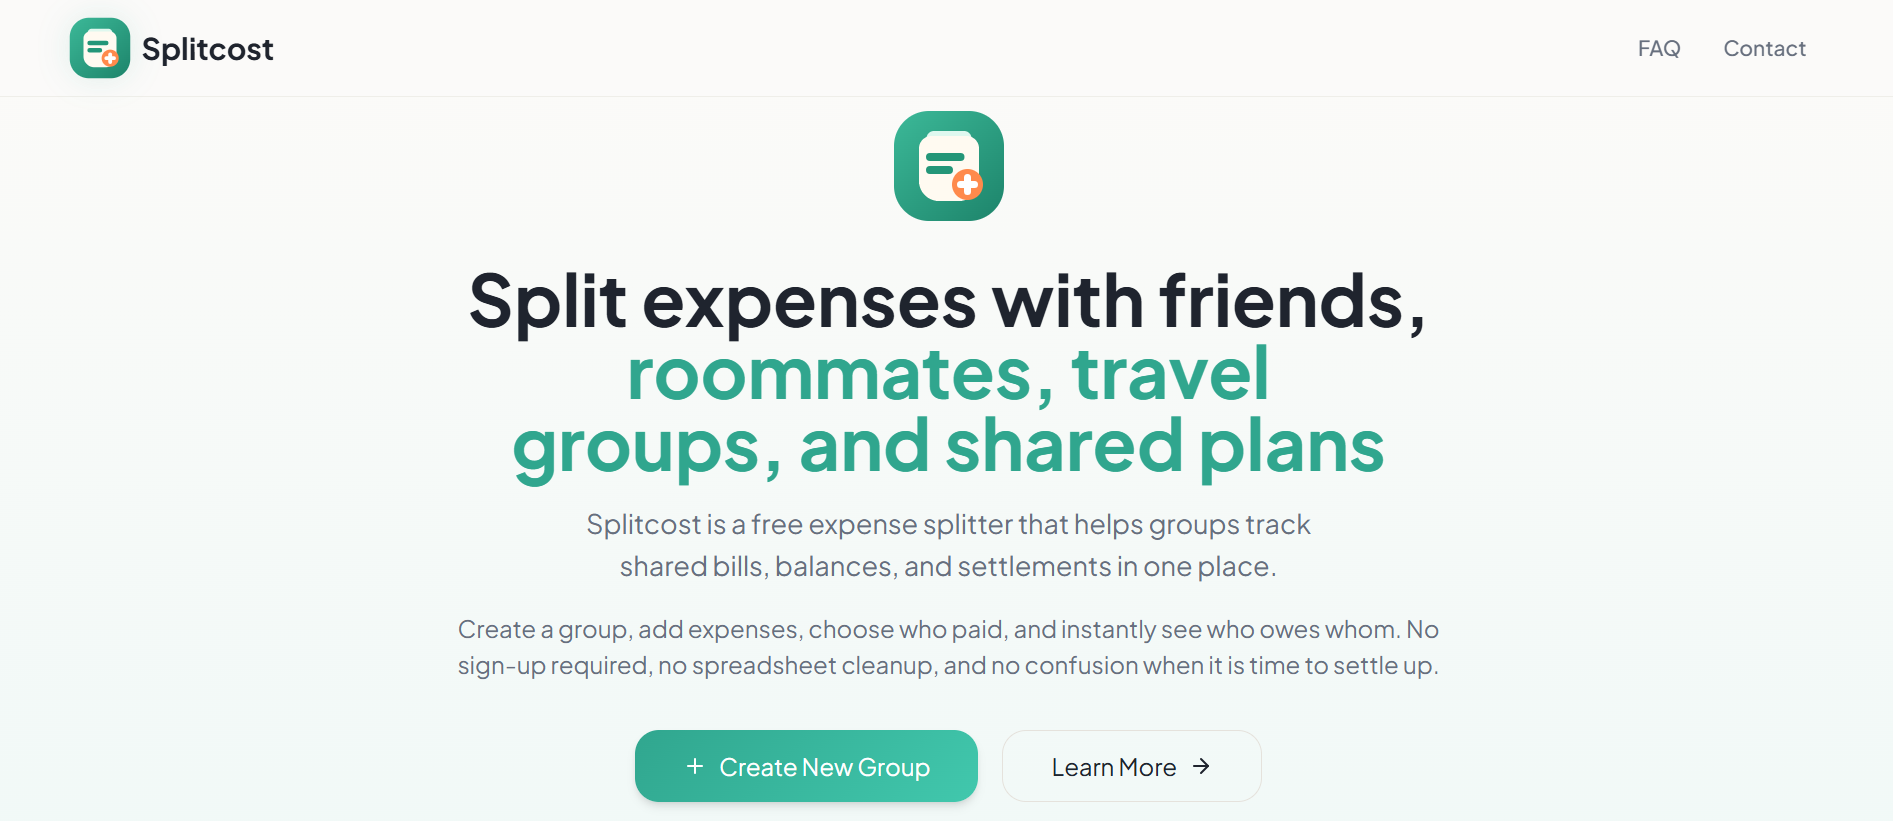
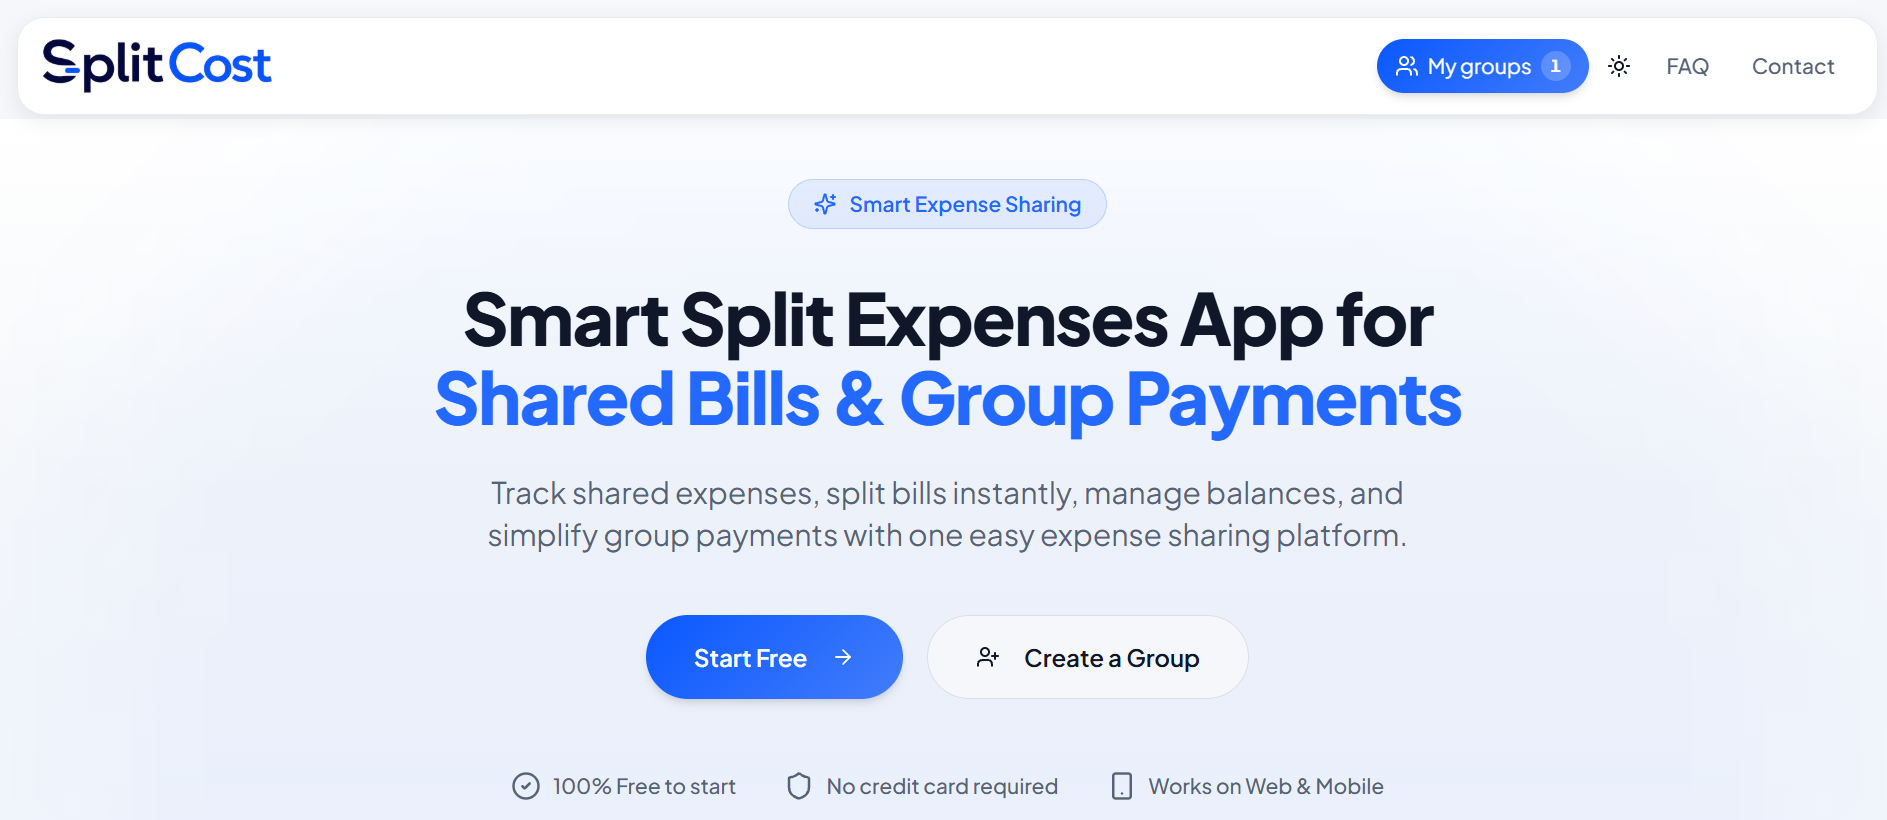
seo fixes

diff --git a/src/components/landing/FaqSection.tsx b/src/components/landing/FaqSection.tsx
@@ -22,70 +22,29 @@ import {
 } from "@/components/ui/accordion";
 import { brandStyles, landingSection } from "@/lib/brand-styles";
 import { APP_NAME } from "@/lib/constants";
+import { FAQ_ITEMS } from "@/lib/faq";
 import { cn } from "@/lib/utils";
 
-type FaqItem = {
+type FaqDisplayItem = {
   question: string;
   answer: string;
   icon: LucideIcon;
 };
 
-const faqs: FaqItem[] = [
-  {
-    question: `What is ${APP_NAME}?`,
-    answer: `${APP_NAME} is a shared expense management platform that helps groups track expenses, split bills fairly, manage balances, and settle payments easily.`,
-    icon: Info,
-  },
-  {
-    question: `Does ${APP_NAME} support different currencies?`,
-    answer: `Yes. Multi-currency support makes ${APP_NAME} useful for international travel expenses and shared payments across different currencies.`,
-    icon: Globe,
-  },
-  {
-    question: `Do I need to create an account to use ${APP_NAME}?`,
-    answer: `No. You can create a group and start tracking shared expenses instantly without requiring everyone to sign up.`,
-    icon: User,
-  },
-  {
-    question: "Can I upload receipts or attachments?",
-    answer:
-      "Yes. You can attach receipts, invoices, and payment screenshots to keep every expense organized and easy to verify.",
-    icon: FileText,
-  },
-  {
-    question: `How can I split expenses in ${APP_NAME}?`,
-    answer:
-      "You can split bills equally, by percentage, or with custom amounts depending on how your group wants to share expenses.",
-    icon: PieChart,
-  },
-  {
-    question: "Can multiple people pay for the same expense?",
-    answer: `Yes. ${APP_NAME} supports multiple payers for a single expense, making it easier to manage shared bookings, travel costs, and group payments.`,
-    icon: Users,
-  },
-  {
-    question: `Can I track travel expenses with ${APP_NAME}?`,
-    answer: `Absolutely. ${APP_NAME} is designed for trips, vacations, and travel groups to help organize transport, hotel bookings, food expenses, and shared costs.`,
-    icon: Luggage,
-  },
-  {
-    question: "Can I export expense reports?",
-    answer: `Yes. ${APP_NAME} allows you to download expense reports and balance summaries for records, reimbursements, or planning purposes.`,
-    icon: Download,
-  },
-  {
-    question: `Is ${APP_NAME} mobile friendly?`,
-    answer: `Yes. ${APP_NAME} is optimized for mobile devices, making it easy to track shared expenses and group payments on the go.`,
-    icon: Smartphone,
-  },
-  {
-    question: `Who can use ${APP_NAME}?`,
-    answer: `${APP_NAME} works well for roommates, couples, travel groups, friends, teams, events, and anyone managing shared expenses together.`,
-    icon: Users,
-  },
+const faqs: FaqDisplayItem[] = [
+  { ...FAQ_ITEMS[0], icon: Info },
+  { ...FAQ_ITEMS[1], icon: Globe },
+  { ...FAQ_ITEMS[2], icon: User },
+  { ...FAQ_ITEMS[3], icon: FileText },
+  { ...FAQ_ITEMS[4], icon: PieChart },
+  { ...FAQ_ITEMS[5], icon: Users },
+  { ...FAQ_ITEMS[6], icon: Luggage },
+  { ...FAQ_ITEMS[7], icon: Download },
+  { ...FAQ_ITEMS[8], icon: Smartphone },
+  { ...FAQ_ITEMS[9], icon: Users },
 ];
 
-function FaqCard({ faq, index }: { faq: FaqItem; index: number }) {
+function FaqCard({ faq, index }: { faq: FaqDisplayItem; index: number }) {
   const Icon = faq.icon;
 
   return (
@@ -124,29 +83,12 @@ function FaqCard({ faq, index }: { faq: FaqItem; index: number }) {
 }
 
 export function FaqSection() {
-  const faqJsonLd = {
-    "@context": "https://schema.org",
-    "@type": "FAQPage",
-    mainEntity: faqs.map((faq) => ({
-      "@type": "Question",
-      name: faq.question,
-      acceptedAnswer: {
-        "@type": "Answer",
-        text: faq.answer,
-      },
-    })),
-  };
-
   return (
     <section
       id="faq"
       className={cn(landingSection.default, landingSection.padding)}
       aria-labelledby="faq-heading"
     >
-      <script
-        type="application/ld+json"
-        dangerouslySetInnerHTML={{ __html: JSON.stringify(faqJsonLd) }}
-      />
       <div className="container">
         <header className="mx-auto mb-8 max-w-3xl text-center sm:mb-12 md:mb-14">
           <p className={cn("mb-5", brandStyles.sectionBadge)}>

diff --git a/src/lib/faq.ts b/src/lib/faq.ts
@@ -1,0 +1,72 @@
+import { APP_NAME } from "@/lib/constants";
+import { getCanonicalUrl } from "@/lib/seo";
+
+export type FaqItem = {
+  question: string;
+  answer: string;
+};
+
+export const FAQ_ITEMS: FaqItem[] = [
+  {
+    question: `What is ${APP_NAME}?`,
+    answer: `${APP_NAME} is a free group expense tracker that helps friends, roommates, and travel groups split bills, track balances, and settle up faster.`,
+  },
+  {
+    question: `Does ${APP_NAME} support different currencies?`,
+    answer: `Yes. You can set a group currency when creating or editing a group, which makes ${APP_NAME} useful for international trips and shared payments across currencies.`,
+  },
+  {
+    question: `Do I need to create an account to use ${APP_NAME}?`,
+    answer: `No. You can create a group and start tracking shared expenses instantly. Share a group link so others can join without everyone needing to sign up.`,
+  },
+  {
+    question: "Can I upload receipts or attachments?",
+    answer:
+      "Yes. You can attach receipts, invoices, and payment screenshots to keep every expense organized and easy to verify.",
+  },
+  {
+    question: `How can I split expenses in ${APP_NAME}?`,
+    answer:
+      "You can split bills equally, by percentage, or with custom amounts depending on how your group wants to share each expense.",
+  },
+  {
+    question: "Can multiple people pay for the same expense?",
+    answer: `Yes. ${APP_NAME} supports multiple payers for a single expense, which is helpful for shared bookings, travel costs, and group payments.`,
+  },
+  {
+    question: `Can I track travel expenses with ${APP_NAME}?`,
+    answer: `Yes. ${APP_NAME} works well for trips and travel groups, including transport, hotels, food, and other shared travel costs.`,
+  },
+  {
+    question: "Can I export expense reports?",
+    answer: `Yes. You can download expense reports and balance summaries for records, reimbursements, or planning.`,
+  },
+  {
+    question: `Is ${APP_NAME} mobile friendly?`,
+    answer: `Yes. ${APP_NAME} is optimized for phones and tablets, so you can add expenses and check balances on the go.`,
+  },
+  {
+    question: `Who can use ${APP_NAME}?`,
+    answer: `${APP_NAME} works well for roommates, couples, travel groups, friends, teams, events, and anyone managing shared expenses together.`,
+  },
+];
+
+export function buildFaqPageJsonLd(items: FaqItem[] = FAQ_ITEMS) {
+  const pageUrl = getCanonicalUrl("/");
+
+  return {
+    "@context": "https://schema.org",
+    "@type": "FAQPage",
+    "@id": `${pageUrl}#faq`,
+    url: pageUrl,
+    inLanguage: "en",
+    mainEntity: items.map((faq) => ({
+      "@type": "Question",
+      name: faq.question,
+      acceptedAnswer: {
+        "@type": "Answer",
+        text: faq.answer,
+      },
+    })),
+  };
+}

diff --git a/src/components/layout/MobileMenuSheet.tsx b/src/components/layout/MobileMenuSheet.tsx
@@ -127,7 +127,7 @@ export function MobileMenuSheet({ open, onOpenChange }: MobileMenuSheetProps) {
         side="bottom"
         className={cn(
           "flex flex-col gap-0 overflow-hidden rounded-t-[20px] border-x-0 border-b-0 p-0",
-          "bottom-[var(--mobile-nav-offset)] h-[calc(100dvh-var(--mobile-nav-offset))] max-h-[calc(100dvh-var(--mobile-nav-offset))]",
+          "bottom-[var(--mobile-nav-offset)] max-h-[calc(100dvh-var(--mobile-nav-offset))]",
           "[&>button]:hidden"
         )}
         style={{ "--mobile-nav-offset": MOBILE_BOTTOM_NAV_OFFSET } as CSSProperties}
@@ -137,26 +137,24 @@ export function MobileMenuSheet({ open, onOpenChange }: MobileMenuSheetProps) {
           Site navigation, settings, and quick links
         </SheetDescription>
 
-        <div className="flex min-h-0 flex-1 flex-col overflow-hidden pt-3">
-          <div className="flex min-h-0 flex-1 flex-col justify-between overflow-hidden">
-            {MENU_SECTIONS.map((section, sectionIndex) => (
-              <div key={section.title}>
-                {sectionIndex > 0 ? (
-                  <div className="mx-4 border-t border-border" role="presentation" />
-                ) : null}
-                <p className="px-4 pb-0.5 pt-3 text-[13px] font-medium text-muted-foreground">
-                  {section.title}
-                </p>
-                <nav aria-label={section.title}>
-                  {section.links.map((link) => (
-                    <MenuRow key={`${section.title}-${link.href}`} {...link} onNavigate={close} />
-                  ))}
-                </nav>
-              </div>
-            ))}
-          </div>
+        <div className="overflow-y-auto overscroll-contain pt-3 pb-4">
+          {MENU_SECTIONS.map((section, sectionIndex) => (
+            <div key={section.title}>
+              {sectionIndex > 0 ? (
+                <div className="mx-4 border-t border-border" role="presentation" />
+              ) : null}
+              <p className="px-4 pb-0.5 pt-3 text-[13px] font-medium text-muted-foreground">
+                {section.title}
+              </p>
+              <nav aria-label={section.title}>
+                {section.links.map((link) => (
+                  <MenuRow key={`${section.title}-${link.href}`} {...link} onNavigate={close} />
+                ))}
+              </nav>
+            </div>
+          ))}
 
-          <div className="shrink-0 pb-4 pt-2">
+          <div className="pt-2">
             <div className="mx-4 border-t border-border" role="presentation" />
             <div className="pt-3">
               <LightModeToggle />

diff --git a/src/app/page.tsx b/src/app/page.tsx
@@ -1,35 +1,27 @@
 import type { Metadata } from "next";
 
+import { buildFaqPageJsonLd } from "@/lib/faq";
 import { buildMetadata } from "@/lib/seo";
 import HomePage from "@/views/Index";
 
 export const metadata: Metadata = buildMetadata({
   title:
-    "Split Expenses & Track Shared Bills With Friends, Roommates, and Trips",
+    "Split Expenses App for Bill Sharing & Group Expense Tracking",
   description:
-    "SplitCost is a free group expense tracker for friends, roommates, couples, and travel groups. Split bills equally, by percent, or with custom shares. It supports multiple payers per expense, lets you edit group details, see balances in real time, and settle up in the fewest payments — no sign-up required.",
+    "SplitCost is a smart split expenses app to track shared bills, manage group payments, split travel costs, and organise roommate or couple expenses easily.",
   path: "/",
-  keywords: [
-    "split expenses",
-    "expense splitter",
-    "group expense tracker",
-    "trip expense tracker",
-    "roommate expense tracker",
-    "bill split calculator",
-    "shared expense app",
-    "settle up app",
-    "split bills with friends",
-    "travel expense app",
-    "multiple payers expense tracker",
-    "shared expense app no signup",
-    "edit group expenses",
-    "split rent and utilities",
-    "vacation expense tracker",
-    "free splitwise alternative",
-    "shared bills calculator",
-  ],
 });
 
 export default function Page() {
-  return <HomePage />;
+  const faqJsonLd = buildFaqPageJsonLd();
+
+  return (
+    <>
+      <script
+        type="application/ld+json"
+        dangerouslySetInnerHTML={{ __html: JSON.stringify(faqJsonLd) }}
+      />
+      <HomePage />
+    </>
+  );
 }

diff --git a/src/lib/seo.ts b/src/lib/seo.ts
@@ -5,21 +5,6 @@ export const SITE_TITLE =
   "SplitCost | Split expenses with friends, roommates, and travel groups";
 export const SITE_DESCRIPTION =
   "SplitCost is a free group expense tracker that helps friends, roommates, and travel groups split bills, track balances, and settle up faster. It supports multiple payers per expense and lets you easily edit group details.";
-export const SITE_KEYWORDS = [
-  "split expenses",
-  "expense splitter",
-  "group expense tracker",
-  "trip expense tracker",
-  "roommate expense tracker",
-  "bill split calculator",
-  "shared expense app",
-  "settle up app",
-  "split bills with friends",
-  "travel expense app",
-  "multiple payers expense tracker",
-  "shared expense app no signup",
-  "edit group expenses",
-];
 export const DEFAULT_OG_IMAGE = "/og-image.png";
 
 const FALLBACK_SITE_URL = "https://www.splitcost.in";
@@ -53,7 +38,6 @@ type BuildMetadataArgs = {
   description: string;
   path: string;
   noIndex?: boolean;
-  keywords?: string[];
 };
 
 export function buildMetadata({
@@ -61,7 +45,6 @@ export function buildMetadata({
   description,
   path,
   noIndex = false,
-  keywords,
 }: BuildMetadataArgs): Metadata {
   const canonicalPath = normalizePath(path);
   const canonicalUrl = getCanonicalUrl(canonicalPath);
@@ -69,7 +52,6 @@ export function buildMetadata({
   return {
     title,
     description,
-    keywords: keywords ?? SITE_KEYWORDS,
     alternates: {
       canonical: canonicalUrl,
     },

diff --git a/src/app/layout.tsx b/src/app/layout.tsx
@@ -10,7 +10,6 @@ import AppProviders from "@/components/providers/AppProviders";
 import {
   DEFAULT_OG_IMAGE,
   SITE_DESCRIPTION,
-  SITE_KEYWORDS,
   SITE_NAME,
   SITE_TITLE,
   getSiteUrl,
@@ -38,7 +37,6 @@ export const metadata: Metadata = {
     template: `%s | ${SITE_NAME}`,
   },
   description: SITE_DESCRIPTION,
-  keywords: SITE_KEYWORDS,
   alternates: {
     canonical: siteUrl,
   },
